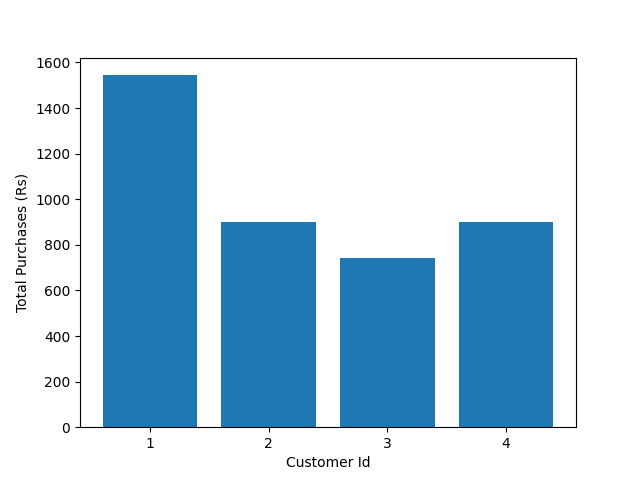
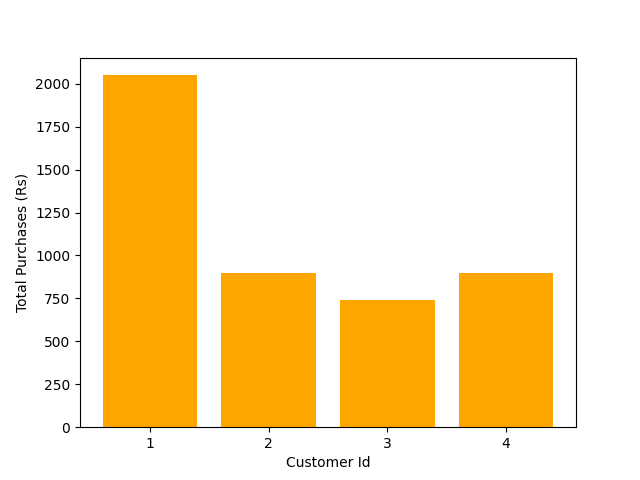
Penultimate Update

diff --git a/website/templates/category_catalog.html b/website/templates/category_catalog.html
@@ -111,7 +111,7 @@ logout %}
   <span><button type="button" STYLE="font-family:'Verdana',margin-left = 5px;"class="btn btn-secondary">
     Out of stock <span STYLE="font-family:'Verdana';margin-left : 10px" class="badge badge-light">{{ products|length - product_instock }}</span>  
   </button></span>
-  <span></span>
+  <span>
   <button type="button" class="btn btn-info" style="margin-left: 20%;color: rgba(227, 21, 7, 0.809); font-size: 1.5vw;text-decoration: none;" data-toggle="modal" data-target="#exampleModalCenter3">
     Highest Revenue Product
   </button>
@@ -141,7 +141,7 @@ logout %}
   class="table table-hover"
     style="
       border: 5px solid rgb(255, 225, 0);
-      width: 80%;
+      width: 90%;
     "
   ><thead class="thead-dark">
     <tr align="center" style="border-bottom: 2px solid black">
@@ -169,7 +169,7 @@ logout %}
           border-right: 3px solid rgb(3, 33, 31);
 
           padding: 10px 10px;
-          width: 11%;
+          width: 13%;
         "
       >
         Price
@@ -195,7 +195,7 @@ logout %}
         Expiry
       </th>
 
-      <th style=" padding: 10px 10px; width: 35%" colspan="2">
+      <th style=" padding: 10px 10px; width: 50%" colspan="3">
         Actions
       </th>
     </tr></thead>
@@ -249,17 +249,43 @@ logout %}
         </strong
       >
     </td>
-      <td >
-        <a class="btn btn-info btn-sm" style="width:41%;color:rgb(246, 5, 218);font-size: 0.9em"  href="/manager_dash/update_item/{{ variety.product_id }}"
+    <span>
+      <td style="width: 25%">
+        <a class="btn btn-info btn-sm" style="width:60%;color:rgb(246, 5, 218);font-size: 0.9em;border:3px;"  href="/manager_dash/update_item/{{ variety.product_id }}"
           >Edit</a
         >
-      </td>
+      </td></span><span><span><td style="width: 80%">
+      <a class="btn btn-success btn-sm" style="margin: 0px;color: rgba(157, 227, 7, 0.809); font-size: 0.9em;text-decoration: none;border:0px" href="/manager_dash/demand_item/{{ variety.product_Name }}">
+        Demand
+      </a>
+      
+      <!-- Modal -->
+      <!-- <div class="modal fade modal-sm" id="exampleModalCenter4" tabindex="-1" role="dialog" aria-labelledby="exampleModalCenterTitle" aria-hidden="true" style="width:1500px;">
+        <div class="modal-dialog modal-dialog-centered" role="document">
+          <div class="modal-content">
+            <div class="modal-header">
+              <h5 class="modal-title" id="exampleModalLongTitle4">Day wise Purchases for product {{ name }}</h5>
+              <button type="button" class="close" data-dismiss="modal" aria-label="Close">
+                <span aria-hidden="true">&times;</span>
+              </button>
+            </div>
+            <div class="modal-body">
+              <img src="{{ url_for('static',filename='Product_demand.png') }}">
+            </div>
+            <div class="modal-footer">
+              <button type="button" class="btn btn-secondary" data-dismiss="modal">Close</button>
+              
+            </div>
+          </div>
+        </div>
+      </div> -->
+    </td></span>
       <td >
         <a class="btn btn-warning btn-sm"  onclick="return confirm('Are you sure to delete?')" style="width:100%; color: red;text-decoration: none;font-size: 0.9em"  href="/manager_dash/delete_product/{{ variety.product_id }}"><svg xmlns="http://www.w3.org/2000/svg" width="16" height="16" fill="currentColor" class="bi bi-trash" viewBox="0 0 16 16">
           <path d="M5.5 5.5A.5.5 0 0 1 6 6v6a.5.5 0 0 1-1 0V6a.5.5 0 0 1 .5-.5Zm2.5 0a.5.5 0 0 1 .5.5v6a.5.5 0 0 1-1 0V6a.5.5 0 0 1 .5-.5Zm3 .5a.5.5 0 0 0-1 0v6a.5.5 0 0 0 1 0V6Z"/>
           <path d="M14.5 3a1 1 0 0 1-1 1H13v9a2 2 0 0 1-2 2H5a2 2 0 0 1-2-2V4h-.5a1 1 0 0 1-1-1V2a1 1 0 0 1 1-1H6a1 1 0 0 1 1-1h2a1 1 0 0 1 1 1h3.5a1 1 0 0 1 1 1v1ZM4.118 4 4 4.059V13a1 1 0 0 0 1 1h6a1 1 0 0 0 1-1V4.059L11.882 4H4.118ZM2.5 3h11V2h-11v1Z"/>
         </svg></a>
-      </td>
+      </td></span>
     </tr></tbody>
     {% endfor %}
   </table>

diff --git a/website/templates/img.html b/website/templates/img.html
@@ -1,0 +1,50 @@
+{% extends "base.html" %} {% block title %}Added Products{% endblock %}{% block
+    logout %}
+    <span
+                  id="logout"
+                  style="display: block inline-block; width: 600px"
+                >
+                  <span style="margin: auto"
+                    ><i
+                      ><a
+                        class="nav-item nav-link"
+                        style="float: left; color: rgb(255, 215, 0)"
+                        href="/logout"
+                        style="display: block; width: 10%; margin-left: 0px"
+                        ><svg
+                          xmlns="http://www.w3.org/2000/svg"
+                          width="16"
+                          height="16"
+                          fill="currentColor"
+                          class="bi bi-box-arrow-right"
+                          viewBox="0 0 16 16"
+                        >
+                          <path
+                            fill-rule="evenodd"
+                            d="M10 12.5a.5.5 0 0 1-.5.5h-8a.5.5 0 0 1-.5-.5v-9a.5.5 0 0 1 .5-.5h8a.5.5 0 0 1 .5.5v2a.5.5 0 0 0 1 0v-2A1.5 1.5 0 0 0 9.5 2h-8A1.5 1.5 0 0 0 0 3.5v9A1.5 1.5 0 0 0 1.5 14h8a1.5 1.5 0 0 0 1.5-1.5v-2a.5.5 0 0 0-1 0v2z"
+                          />
+                          <path
+                            fill-rule="evenodd"
+                            d="M15.854 8.354a.5.5 0 0 0 0-.708l-3-3a.5.5 0 0 0-.708.708L14.293 7.5H5.5a.5.5 0 0 0 0 1h8.793l-2.147 2.146a.5.5 0 0 0 .708.708l3-3z"
+                          /></svg
+                        >Logout</a
+                      ></i
+                    ></span
+                  ><span style="margin: auto"
+                    ><a
+                      class="nav-item nav-link"
+                      style="
+                        float: left;
+                        color: rgb(160, 82, 45);
+                        width: 60%;
+                        margin-left: 20px;
+                      "
+                      href="/delete_account/{{id}}"
+                      onclick="return confirm('Are you sure you want to delete the account?');"
+                      >Delete MyAccount</a
+                    ></span
+                  ></span
+                >
+    {% endblock %} {% block content %}
+    <img src = "{{ url_for('static',filename='Product_demand.png') }}"
+    {% endblock %}

diff --git a/website/views.py b/website/views.py
@@ -59,10 +59,7 @@ def pd_1():
     cat = ola.category.tolist()
     sale = ola.sales.tolist()
 
-    # print(sale)
-    # for item in categorie:
-    #     list_.append(item)
-    plt.bar(cat, sale)
+    plt.bar(cat, sale, color='orange')
     plt.xticks(cat)
     plt.ylabel("Total Revenue (Rs)")
     plt.xlabel("Category Name")
@@ -84,16 +81,12 @@ def pd_2():
     cat2 = ola2.customerid.tolist()
     sale2 = ola2.sales.tolist()
 
-    # print(ola2)
-    # for item in categorie:
-    #     list_.append(item)
-    plt.bar(cat2, sale2)
+    plt.bar(cat2, sale2, color='orange')
     plt.xticks(cat2)
     plt.ylabel("Total Purchases (Rs)")
     plt.xlabel("Customer Id")
     plt.savefig('website/static/BestCustomer.png')
     plt.clf()
-    # plt.show()
 
 
 def pd_3(category):
@@ -109,7 +102,7 @@ def pd_3(category):
     Orders_['category'] = Orders_['category'].astype('str')
     Orders_['sales'] = Orders_['quantity'] * Orders_['price']
 
-    # Most recurring Customer
+    # Most spending Customer
     ola3 = Orders_.groupby(['category', 'product']).sum()[
         'sales'].reset_index()
     cat3 = ola3.category.tolist()
@@ -123,13 +116,105 @@ def pd_3(category):
     print(product_list)
     print(sales_list)
 
-    plt.bar(product_list, sales_list)
+    plt.bar(product_list, sales_list, color='orange'
+            )
     plt.xticks(product_list)
     plt.ylabel("Total Purchases (Rs)")
     plt.xlabel("Product Name")
     plt.savefig('website/static/BestProduct.png')
     plt.clf()
-    # plt.show()
+
+
+def pd_4(product):
+    product_list = []
+    sales_list = []
+    Orders_csv = pd.read_csv(Path('website/static', 'orders.csv'))
+    Orders_ = pd.DataFrame(Orders_csv)
+    Orders_['month'] = Orders_['purchase date'].str[5:7]
+    Orders_['month'] = Orders_['month'].astype('int32')
+    Orders_['quantity'] = Orders_['quantity'].astype('int32')
+    Orders_['price'] = pd.to_numeric(Orders_['price'])
+    Orders_['product'] = Orders_['product'].astype('str')
+    Orders_['category'] = Orders_['category'].astype('str')
+    Orders_['sales'] = Orders_['quantity'] * Orders_['price']
+    Orders_['purchase date'] = pd.to_datetime(Orders_['purchase date'])
+    Orders_['day'] = Orders_['purchase date'].dt.day_name()
+    Orders_['day'] = Orders_['day'].astype('category')
+    # print(Orders_['day'])
+
+    # ola4 = Orders_.groupby(['day', 'product', 'quantity'])
+
+    # Most recurring Customer....statements must be separated by . or newline
+    ola4 = Orders_[['day', 'product', 'quantity']]
+    ola5 = ola4.groupby(['day', 'product', 'quantity'])
+    # print(ola5.first())
+    days = ['Sunday', 'Monday', 'Tuesday',
+            'Wednesday', 'Thursday', 'Friday', 'Saturday']
+    qty = [0, 0, 0, 0, 0, 0, 0]
+    a = 0
+    b = 0
+    c = 0
+    d = 0
+    e = 0
+    f = 0
+    g = 0
+    for items in ola5:
+        # print(items[0])
+        # print(items[0][2])
+        if items[0][0] == 'Sunday':
+            if items[0][1] == product:
+                a += items[0][2]
+            qty[0] = a
+
+        elif items[0][0] == 'Monday':
+            if items[0][1] == product:
+                b += items[0][2]
+            qty[1] = b
+
+        elif items[0][0] == 'Tuesday':
+            if items[0][1] == product:
+                c += items[0][2]
+            qty[2] = c
+
+        elif items[0][0] == 'Wednesday':
+            if items[0][1] == product:
+                d += items[0][2]
+            qty[3] = d
+            # print(d)
+
+        elif items[0][0] == 'Thursday':
+            if items[0][1] == product:
+                e += items[0][2]
+                qty[4] = e
+                # print(e)
+
+        elif items[0][0] == 'Friday':
+            if items[0][1] == product:
+                f += items[0][2]
+                qty[5] = f
+
+        elif items[0][0] == 'Saturday':
+            if items[0][1] == product:
+                g += items[0][2]
+                qty[6] = g
+    print(qty[4])
+    a = 0
+    b = 0
+    c = 0
+    d = 0
+    e = 0
+    f = 0
+    g = 0
+    # print(qty)
+    plt.plot(days, qty, 'om', color='hotpink',
+             marker='.', mfc='y', linestyle=':', markersize=20)
+
+    plt.xticks(days)
+    plt.yticks(qty)
+    plt.ylabel("Weekly Purchase(Qty)")
+    plt.xlabel("Days")
+    plt.savefig('website/static/Product_demand.png')
+    plt.clf()
 
 
 # monthly, weekly business data? Product wise......qty sold in a week or month.....gives estimate of demand for the product
@@ -603,6 +688,15 @@ def Add_product(id):
         return redirect(url_for('views.Dash_manager'))
 
     return render_template('product_add.html', name=category.category_Name, variable=id)
+
+
+@login_required
+@Views.route('/manager_dash/demand_item/<name>', methods=["GET", "POST"])
+def Demand(name):
+    if os.path.isfile('website/static/Prodcut_demand.png'):
+        os.remove('website/static/Prodcut_demand.png')
+    pd_4(name)
+    return render_template('img.html')
 
 
 @login_required
